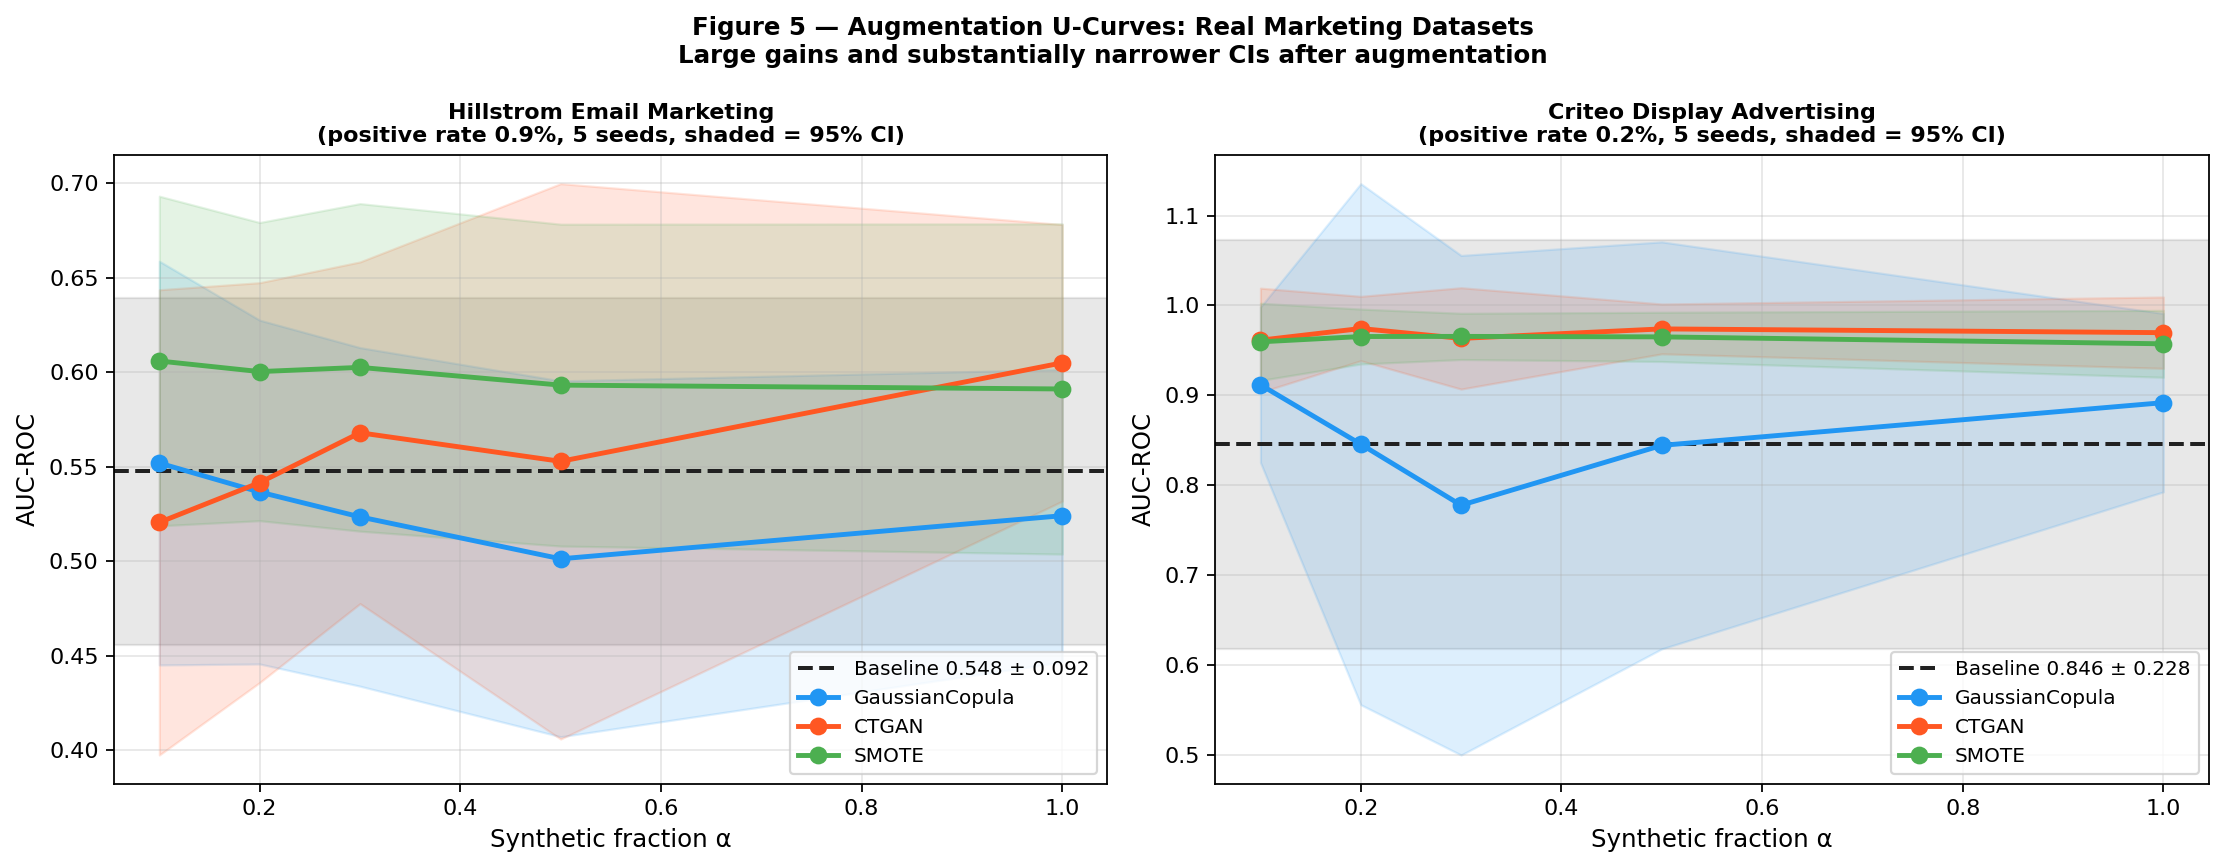
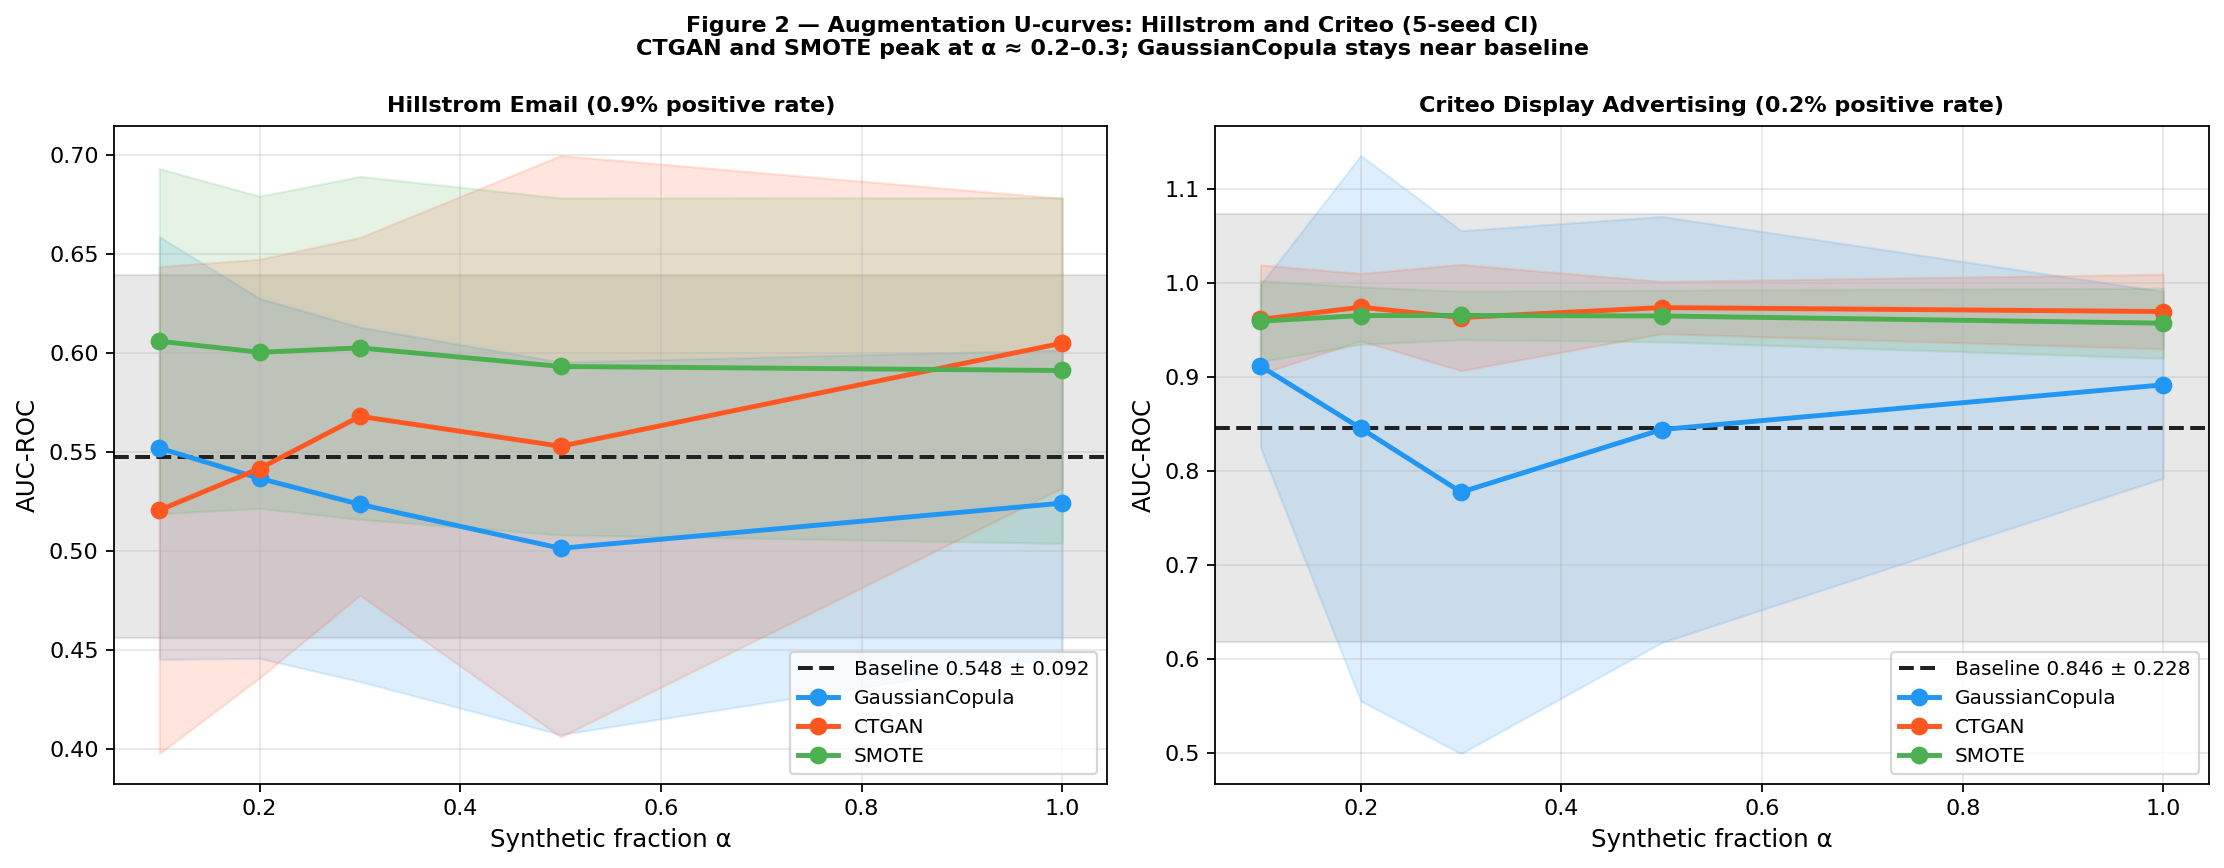
Apply all review fixes 1-6, 9 + regenerate Figure 2
Fix 1: Remove blinding note
Fix 2: Rename 'Table 0' -> 'TSTR Results' (removes unconventional numbering)
Fix 3: Move Figure 1 to §3 (was misplaced in intro)
Fix 4: Add individual SMOTE/CTGAN gains in §3
  - Hillstrom: CTGAN +5.75, SMOTE +5.84
  - Criteo: CTGAN +12.87, SMOTE +11.99
Fix 5: GReaT training instability alternative in §5
Fix 6: Qualify GReaT Table 2 claim as expected behavior (not measured)
Fix 9: Connect Figure 2 to α recommendation in §6

Figure 2: Regenerated with correct 'Figure 2' title (was 'Figure 5')

diff --git a/papers/paper2-informs-short.md b/papers/paper2-informs-short.md
@@ -1,8 +1,6 @@
 # Synthetic Data Augmentation in the Extreme-Imbalance Regime: Evidence from Marketing Classification
 
 *Complete paper submitted to INFORMS Workshop on Data Science 2026*
-*[BLINDED FOR REVIEW — remove this line before submission]*
-
 ---
 
 ## Abstract
@@ -39,10 +37,6 @@ This paper answers that question empirically. We ran a controlled study across s
 
 \* Baseline AUC is calculated using a GradientBoostingClassifier (n_estimators=100, max_depth=4)
 
-![Figure 1](../results/plots/paper2/fig11_minority_budget_vs_gain.png)
-
-**Figure 1 — Minority example budget vs. best augmentation gain (CTGAN).** Each point is one dataset. Gains collapse once minority examples exceed ~200. The two marketing datasets (Criteo: 16 examples, Hillstrom: 72 examples) sit in the regime where augmentation consistently helps.
-
 ## 2. Experimental Setup
 
 **Generators.** We evaluated five generators: GaussianCopula (Patki et al., 2016), CTGAN (Xu et al., 2019), SMOTE (Chawla et al., 2002), TabDDPM (Kotelnikov et al., 2023), and GReaT (Borisov et al., 2023) at two LLM scales — GPT-2 (117M parameters) and Mistral-7B (7B parameters). All generators run with library-default hyperparameters.
@@ -53,7 +47,7 @@ This paper answers that question empirically. We ran a controlled study across s
 2. **TSTR (Train on Synthetic, Test on Real):** Train entirely on synthetic data, evaluate on the real holdout. This tells us whether synthetic data can replace real data. Spoiler: it can't.
 3. **Augmentation sweep:** Fit the generator on the real training set, generate synthetic rows, combine with real training data, retrain, and compare to baseline.
 
-**Table 0 — TSTR gap: synthetic-only training always underperforms (single seed)**
+**TSTR Results — synthetic-only training always underperforms (single-seed point estimates)**
 
 | Dataset | Baseline AUC | Best TSTR AUC | TSTR gap |
 |---|---|---|---|
@@ -81,7 +75,11 @@ For the augmentation sweep, we controlled the synthetic fraction using **α = n_
 
 ## 3. Core Finding: Minority-Example Scarcity Drives Augmentation Value
 
-Across the five datasets with a positive rate of 11.7% or higher, each of which contains at least 240 minority examples, we find that no generator improves on the baseline by more than +0.27 AUC points at any value of α. The picture changes on the two marketing datasets. On Hillstrom (72 minority examples) and Criteo (16 minority examples), CTGAN and SMOTE recover between +5.7 and +12.9 AUC points. We did not evaluate datasets in the 1%–10% positive-rate range, and we caution against extrapolating our results into that region.
+Across the five datasets with a positive rate of 11.7% or higher, each of which contains at least 240 minority examples, we find that no generator improves on the baseline by more than +0.27 AUC points at any value of α. The picture changes on the two marketing datasets. On Hillstrom (72 minority examples), CTGAN delivers +5.75 AUC points and SMOTE delivers +5.84 AUC points at best α. On Criteo (16 minority examples), CTGAN delivers +12.87 AUC points and SMOTE delivers +11.99 AUC points. Both generators achieve similar gains; the choice between them is discussed in §6. We did not evaluate datasets in the 1%–10% positive-rate range, and we caution against extrapolating our results into that region.
+
+![Figure 1](../results/plots/paper2/fig11_minority_budget_vs_gain.png)
+
+**Figure 1 — Minority example budget vs. best augmentation gain (CTGAN).** Each point is one dataset. Gains collapse once minority examples exceed ~200. The two marketing datasets (Criteo: 16 examples, Hillstrom: 72 examples) sit in the regime where augmentation consistently helps.
 
 Criteo offers a useful illustration of what is at stake in this regime. Trained on real data alone, 7 of 10 MLP seeds failed to converge (AUC < 0.15). After CTGAN augmentation, all 10 seeds converged, with a mean AUC of 0.940 ± 0.030 (95% CI). In this setting, augmentation is not a marginal refinement of an already-working model; it is what separates a classifier that trains from one that does not.
 
@@ -137,7 +135,7 @@ We next turn to GReaT (Borisov et al., 2023), which takes a different approach: 
 
 Three findings emerge from Table 3. First, on the anonymized dataset (German Credit), both backbone scales hurt performance consistently. This is what we would expect if the value of a language-model prior comes from the meaning of feature names, since that meaning is absent here. Second, on Hillstrom, where imbalance is extreme, GReaT does not merely fail to help but actively harms performance as n grows (GPT-2: −6.87 points at n=2,000, $d_z$=−4.40, FDR-significant, p=0.006). The most plausible reading is that, at a 0.9% positive rate, additional LLM-generated rows dilute the minority class rather than enrich it. Third, the larger backbone offers little: Mistral-7B is marginally less harmful than GPT-2 on German Credit at large n (−0.38 vs −3.00 points at n=500), but on Hillstrom and Telco both models fall below baseline in most conditions. On the extreme-imbalance datasets that matter for marketing, neither scale comes close to CTGAN.
 
-We read this result through the same lens as Table 2. Like TabDDPM, GReaT samples from the joint distribution without any conditioning on the minority class, so the synthetic positive rate it produces tends to mirror the training distribution (about 0.9% on Hillstrom) whether the backbone is GPT-2 or Mistral-7B. Scaling the language model from 117M to 7B parameters leaves this sampling behavior unchanged, which is consistent with the null effect we observe. This is the clearest evidence in our study that *capability is not the bottleneck*: a roughly 60-fold increase in model size cannot compensate for the absence of a conditioning step, just as the extended training budget could not rescue TabDDPM. The failure is structural — GReaT, in effect, lacks CTGAN's conditional vector — and no amount of backbone scale supplies it.
+We read this result through the same lens as Table 2. Like TabDDPM, GReaT samples from the joint distribution without any conditioning on the minority class, so the synthetic positive rate it produces should tend to mirror the training distribution (about 0.9% on Hillstrom) whether the backbone is GPT-2 or Mistral-7B — we did not directly measure GReaT's synthetic positive rate, but this is the expected behavior from its unconditional sampling design. An alternative explanation worth noting: the higher failure rates at very small n (4/5 seeds failing at n=50) could reflect training instability at small dataset sizes rather than the sampling mechanism alone. Both explanations are consistent with the data; we present the sampling account as the more parsimonious reading given its consistency with Table 2. Scaling the language model from 117M to 7B parameters leaves this sampling behavior unchanged, which is consistent with the null effect we observe. This is the clearest evidence in our study that *capability is not the bottleneck*: a roughly 60-fold increase in model size cannot compensate for the absence of a conditioning step, just as the extended training budget could not rescue TabDDPM. The failure is structural — GReaT, in effect, lacks CTGAN's conditional vector — and no amount of backbone scale supplies it.
 
 ---
 
@@ -152,7 +150,7 @@ We read this result through the same lens as Table 2. Like TabDDPM, GReaT sample
 | 0.5%–1% | CTGAN/SMOTE +5–6 pts | Run CTGAN or SMOTE at α ∈ {0.1, 0.3}; validate before scaling |
 | < 0.5% | CTGAN/SMOTE +12–13 pts | Strongly consider CTGAN — it also stabilizes training reliability |
 
-The key practical point: if your positive rate is above 10%, augmentation is unlikely to help based on our results. If it's below 1%, CTGAN or SMOTE is worth trying. If it's between 1% and 10% — that's a gap in our study, and you should validate on your own data.
+The key practical point: if your positive rate is above 10%, augmentation is unlikely to help based on our results. Figure 2 shows why α ∈ {0.1, 0.3} is the right starting range — gains peak at these values and degrade toward α=1.0 on both marketing datasets. If it's below 1%, CTGAN or SMOTE is worth trying. If it's between 1% and 10% — that's a gap in our study, and you should validate on your own data.
 
 For practitioners choosing between CTGAN and SMOTE: both achieve similar gains in our experiments. SMOTE is simpler, requires no GPU, and has no hyperparameters to tune. CTGAN provides more diverse synthetic samples that preserve feature correlations, which can matter for downstream model quality beyond AUC. For a quick check, start with SMOTE; for production deployments where sample diversity matters, CTGAN is the better long-term choice.
 